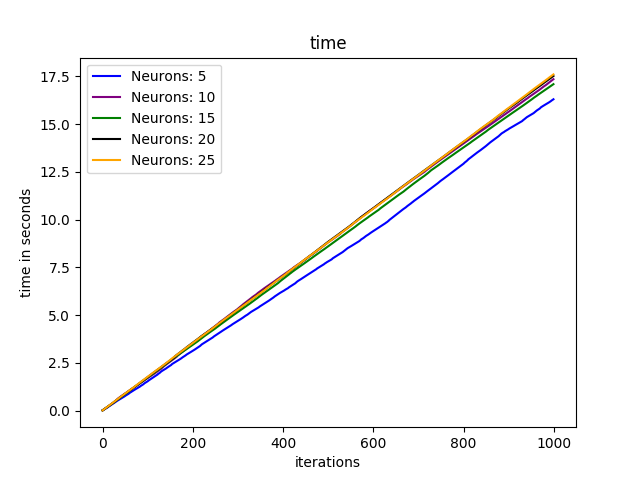
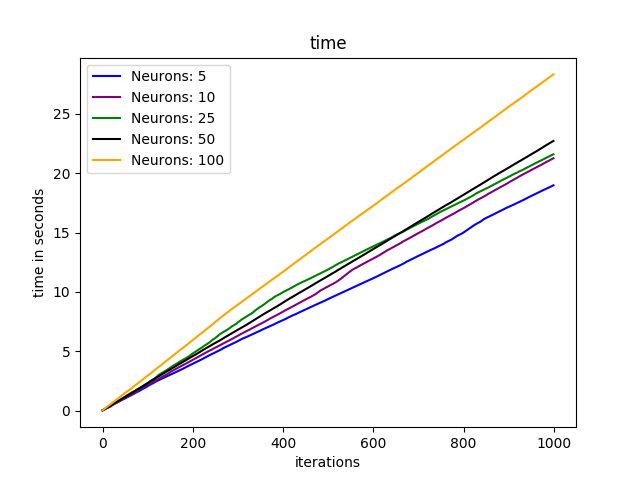
finished question 3

diff --git a/Proj1/Project_1a/question_3.py b/Proj1/Project_1a/question_3.py
@@ -38,15 +38,14 @@ def shuffle_data (samples, labels):
     samples, labels = samples[idx], labels[idx]
     return samples, labels
 
-colors = {5:"blue", 10:"purple", 15:"green", 20:"black", 25:"orange"}
+colors = {5:"blue", 10:"purple", 25:"green", 50:"black", 100:"orange"}
 decay = 1e-6
 learning_rate = 0.01
 epochs = 1000
 
 batch_size = 16
 
-hidden_layer_options = [5, 10, 15, 20, 25]
-
+hidden_layer_options = [5, 10, 25, 50, 100]
 
 for neurons in hidden_layer_options:
 
@@ -122,11 +121,7 @@ for neurons in hidden_layer_options:
     train_cost = []
     time_list = []
 
-
-
     start_time = time.time()
-
-
 
     for i in range(epochs):
         if i % 200 == 0:
@@ -177,6 +172,3 @@ plt.ylabel('time in seconds')
 plt.title('time')
 plt.savefig('p1a_sample_time_neurons.png')
 plt.show()
-
-
-
